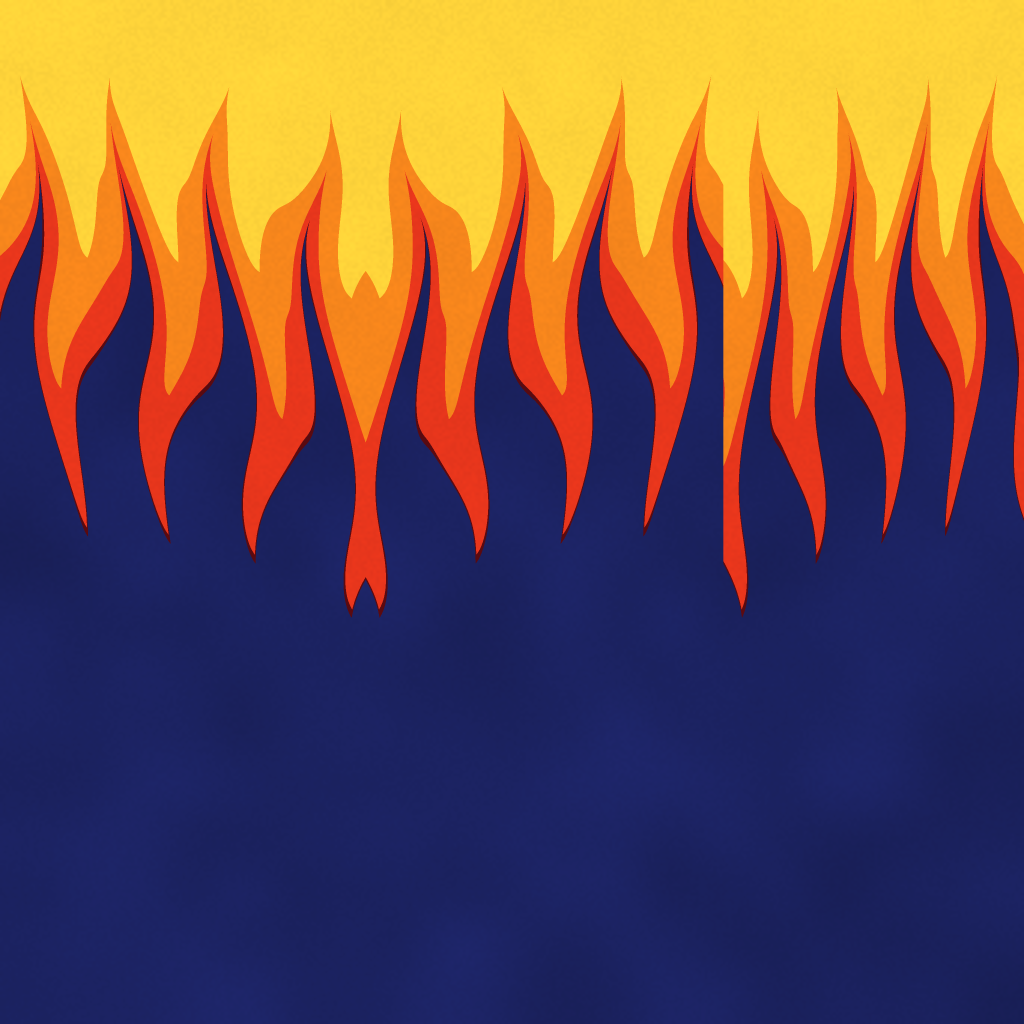
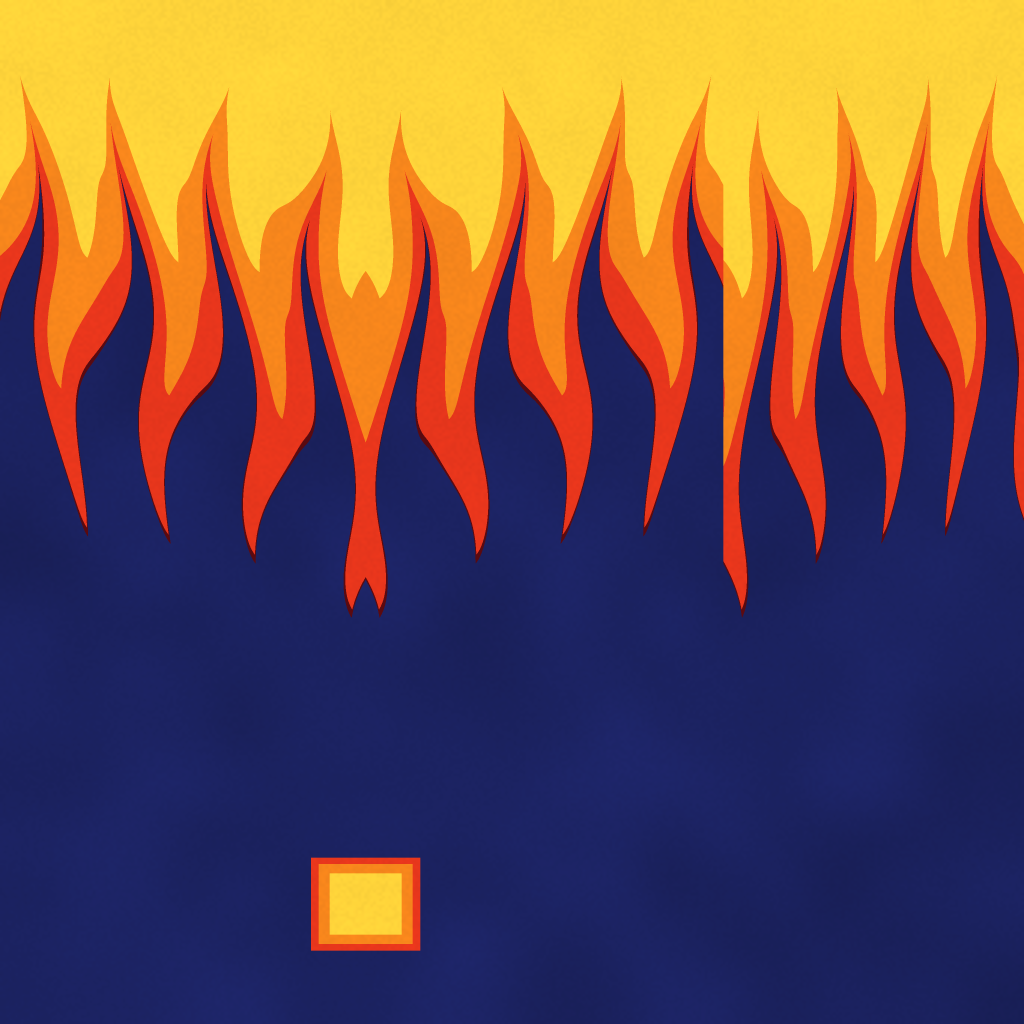
8-Bit redrawn bright all over, Flame Decal gets a flame face on the blunt nose (Alan's notes; not uploaded yet)
Main: 41b04a5fdcea8973dbca5b38ece961a833a3ce22

Changed region(s): [[0.2812, 0.8125, 0.4375, 0.9375]]

diff --git a/tools/art/skin_sheets.py b/tools/art/skin_sheets.py
@@ -63,21 +63,32 @@ def racing_stripe():
     return pick(SIDE, side, flat)
 
 def eight_bit():
-    """Chunky pixels: navy with clusters of bright blocks."""
+    """Chunky pixels everywhere: three blocks in four are bright (pink, cyan, yellow, orange, green, red, in small
+    same-colour patches), the rest near-black blue gaps, spread evenly so every part shows them (Alan 2026-11-16: the
+    first pass was mostly dark purple, with the bright blocks missing on top of the nose)."""
     B = 20; gi, gj = (px // B).astype(int), (py // B).astype(int); g = N // B + 2
     rng = np.random.default_rng(8)
     def field(cell):                                                         # blotchy random field per block
         lo = rng.random((g // cell + 2, g // cell + 2)); f = np.kron(lo, np.ones((cell, cell)))[:g, :g]
-        return 0.6 * f + 0.4 * rng.random((g, g))
-    on, hue = field(3) > 0.56, (field(2) * 6).astype(int) % 6
-    # Safety (lessons.md, the 2026-10-12 bans): random blocks must never come near a hooked cross. Every 5 x 5 window,
-    # bright against navy and colour by colour, must differ from it (and its mirror) in at least 5 blocks; reseed if not.
+        return 0.45 * f + 0.55 * rng.random((g, g))
+    on, hue = field(2) > 0.31, (field(2) * 12).astype(int) % 6
+    # Safety (lessons.md, the 2026-10-12 bans): no 5 x 5 window may come near a hooked cross (or its mirror), as bright
+    # on dark, dark on bright or in one colour: 21 or more of its 25 blocks matching gets repaired (the cross's own
+    # blocks change group), then everything is checked again.
     S = np.array([[1, 0, 1, 1, 1], [1, 0, 1, 0, 0], [1, 1, 1, 1, 1], [0, 0, 1, 0, 1], [1, 1, 1, 0, 1]], bool)
-    for mask in [on] + [on & (hue == k) for k in range(6)]:
+    def near(mask):
         win = np.lib.stride_tricks.sliding_window_view(mask, (5, 5))
-        assert max((win == p).sum((2, 3)).max() for p in (S, S[:, ::-1])) <= 20, "8-Bit: a block shape too close to a hooked cross; change the seed"
-    pal = np.array([rgb(h) for h in ("#FF2FB0", "#19D3FF", "#FFE52A", "#FF8A1E", "#8B3DFF", "#3BE05A")])
-    cell = np.where(on[..., None], pal[hue], rgb("#1A1A4A") * (0.85 + 0.3 * rng.random((g, g, 1))))
+        return [(i, j, p) for p in (S, S[:, ::-1]) for i, j in zip(*np.nonzero((win == p).sum((2, 3)) >= 21))]
+    for _ in range(200):
+        hits = [("on", h) for h in near(on)] + [("off", h) for h in near(~on)] + [(k, h) for k in range(6) for h in near(on & (hue == k))]
+        if not hits: break
+        for kind, (i, j, p) in hits:
+            if kind == "on": on[i:i + 5, j:j + 5] |= ~p                      # fill the gaps round a bright cross
+            elif kind == "off": on[i:i + 5, j:j + 5] |= p                    # light up a dark cross
+            else: hue[i:i + 5, j:j + 5] = np.where(p & (rng.random((5, 5)) < 0.5), (kind + 1) % 6, hue[i:i + 5, j:j + 5])
+    assert not hits, "8-Bit: a block shape too close to a hooked cross is left"
+    pal = np.array([rgb(h) for h in ("#FF3FA8", "#19D3FF", "#FFE52A", "#FF8A1E", "#3BE05A", "#FF3B30")])
+    cell = np.where(on[..., None], pal[hue], rgb("#0E1230") * (0.85 + 0.3 * rng.random((g, g, 1))))
     col = cell[gj, gi]
     edge = (np.minimum(px % B, B - px % B) < 0.8) | (np.minimum(py % B, B - py % B) < 0.8)   # a thin dark line between blocks
     return np.where(edge[..., None], col * 0.72, col)
@@ -100,6 +111,11 @@ def flame_decals():
     col = np.broadcast_to(rgb("#1B2260"), px.shape + (3,)) * (0.9 + 0.2 * noise(120, 5, 2))[..., None]
     for k, back, c in ((1.0, -0.22, "#5A0A10"), (1.0, 0, "#E8361C"), (0.74, 0.5, "#F7861C"), (0.5, 1.1, "#FFD43A")):
         col = pick(inside(k, back) & ~FRONT, rgb(c), col)                    # FRONT is mostly back-facing edges (wing and booster ends): they stay blue
+    # ...but the blunt nose's flat face is there too (|x| < 1.3, y -0.85 to 1.4; Alan 2026-11-16: it was a dark cap on a
+    # flaming nose): a yellow heart with an orange and red rim where a nose's face can be, blue everywhere else.
+    r = np.maximum(np.abs(X) / 1.35, np.abs(Y - 0.3) / 1.15)
+    for lim, c in ((1.0, "#E8361C"), (0.86, "#F7861C"), (0.66, "#FFD43A")):
+        col = pick(FRONT & (r < lim), rgb(c), col)
     return col
 
 def tie_dye():

diff --git a/tools/art/skin_preview.py b/tools/art/skin_preview.py
@@ -16,7 +16,9 @@ BUILDS = {"starter": dict(body="body_standard", nose="nose_0", wings="wings_0", 
 if os.environ.get("MORE"):                                                  # MORE=1: also the mk2 bodies and the twin-fin tail
     BUILDS.update(swept=dict(body="body_standard_mk2", nose="nose_1", wings="wings_1", tail="tail_1", weapon_mounts=["staple", "staple"], utility="boost_twin"),
                   heavy2=dict(body="body_heavy_mk2", nose="nose_3", wings="wings_4", tail="tail_4", weapon_mounts=["pellet", "pellet"], utility="boost_spool"),
-                  slim=dict(body="body_slim", nose="nose_5", wings="wings_2", tail="tail_2", weapon_mounts=["pellet", "pellet"]))
+                  slim=dict(body="body_slim", nose="nose_5", wings="wings_2", tail="tail_2", weapon_mounts=["pellet", "pellet"]),
+                  blunt=dict(body="body_standard", nose="nose_2", wings="wings_3", tail="tail_3", weapon_mounts=["pellet", "pellet"]))
+if os.environ.get("ONLY"): BUILDS = {k: v for k, v in BUILDS.items() if k in os.environ["ONLY"].split(",")}   # ONLY=starter,blunt
 GAP = 80.0
 def to_bl(p, dx=0.0): return Vector((p[0] + dx, -p[2], p[1]))                # Roblox (x right, y up, nose -z) -> Blender
 bpy.ops.wm.read_factory_settings(use_empty=True); sc = bpy.context.scene
